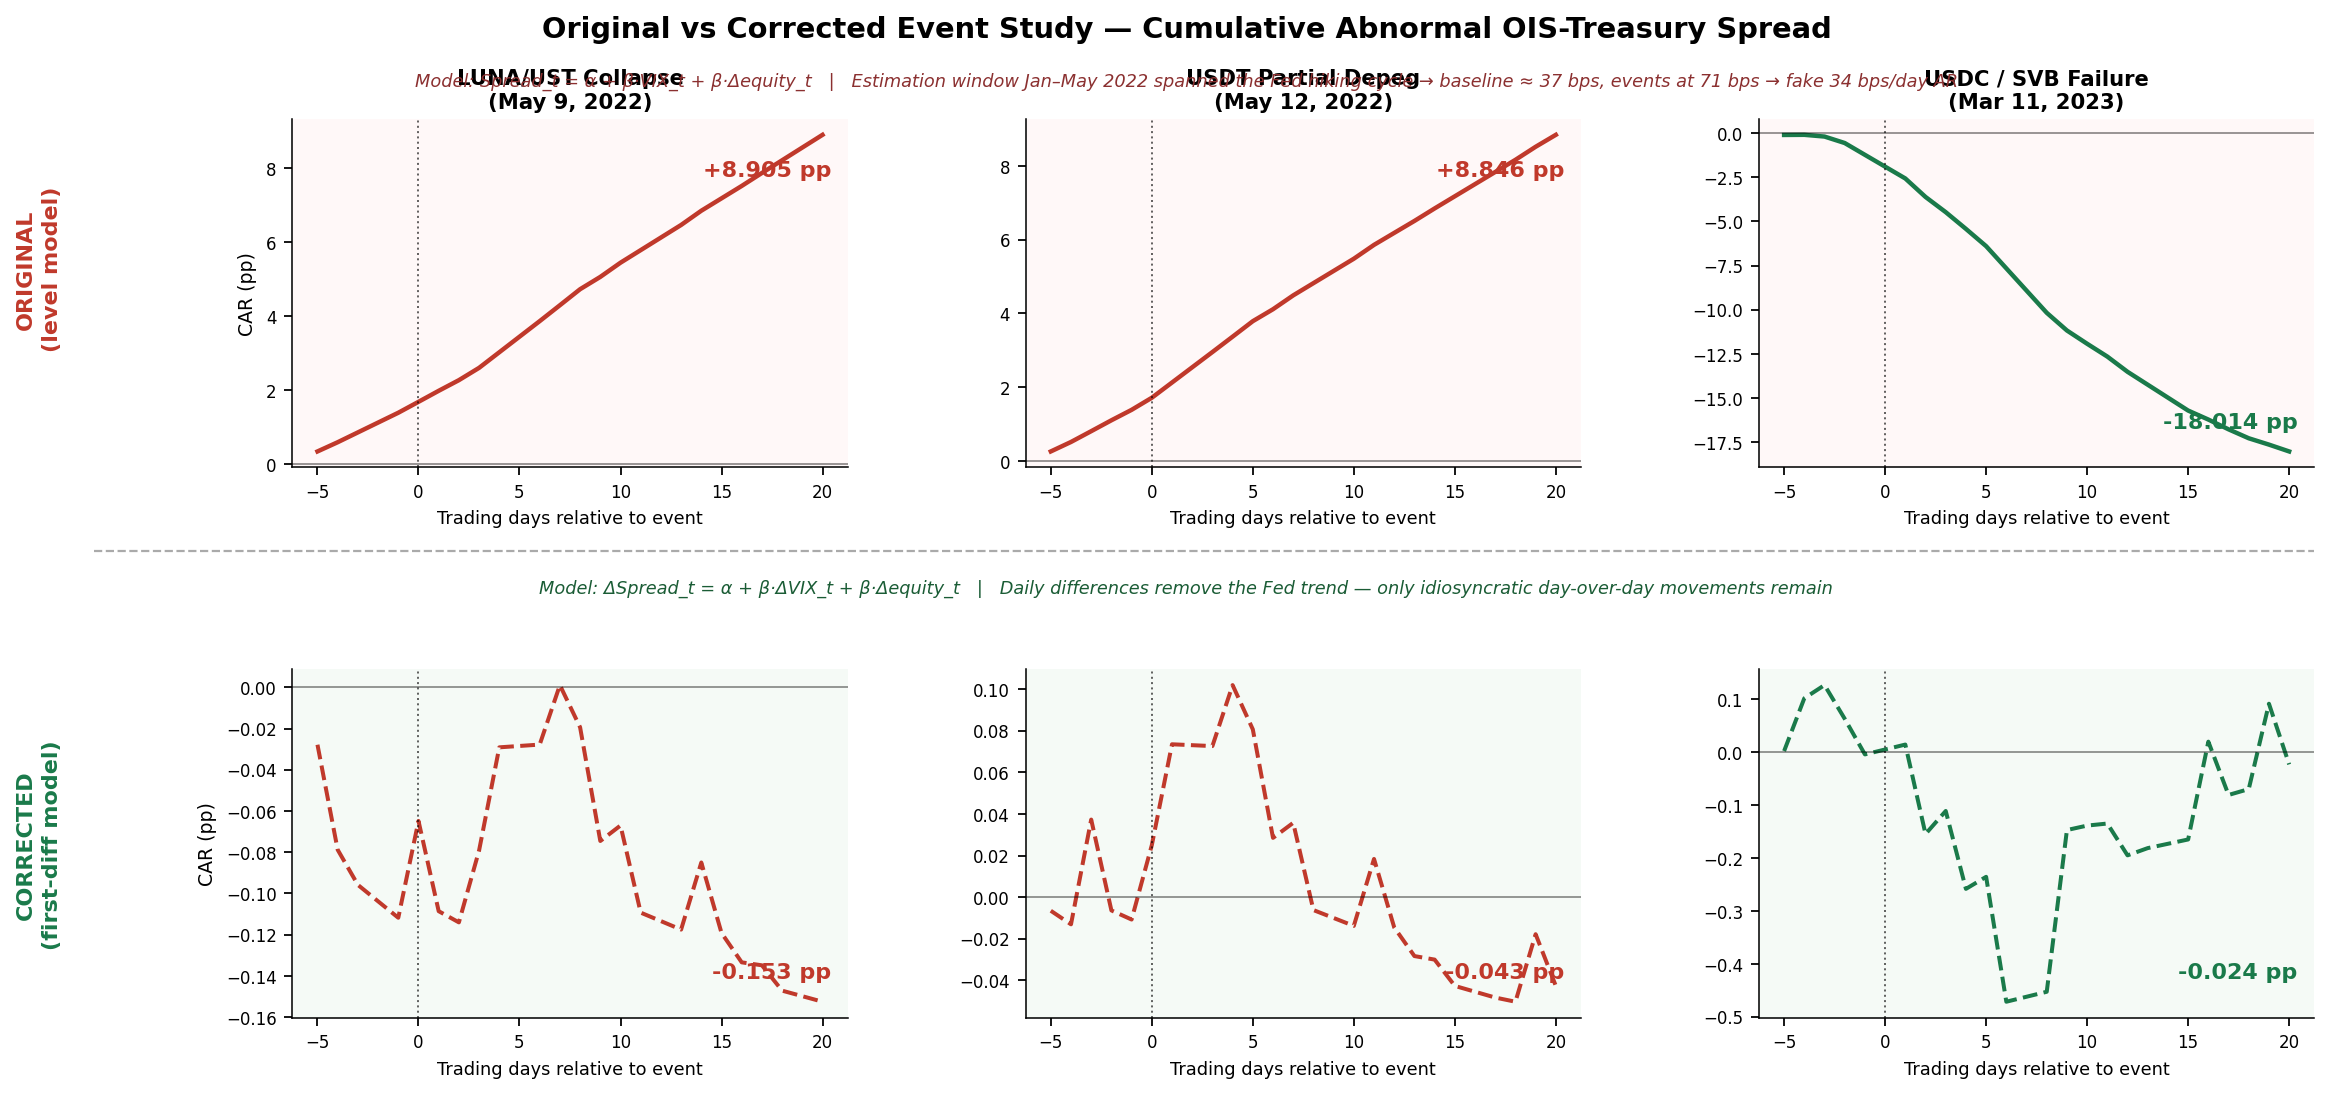
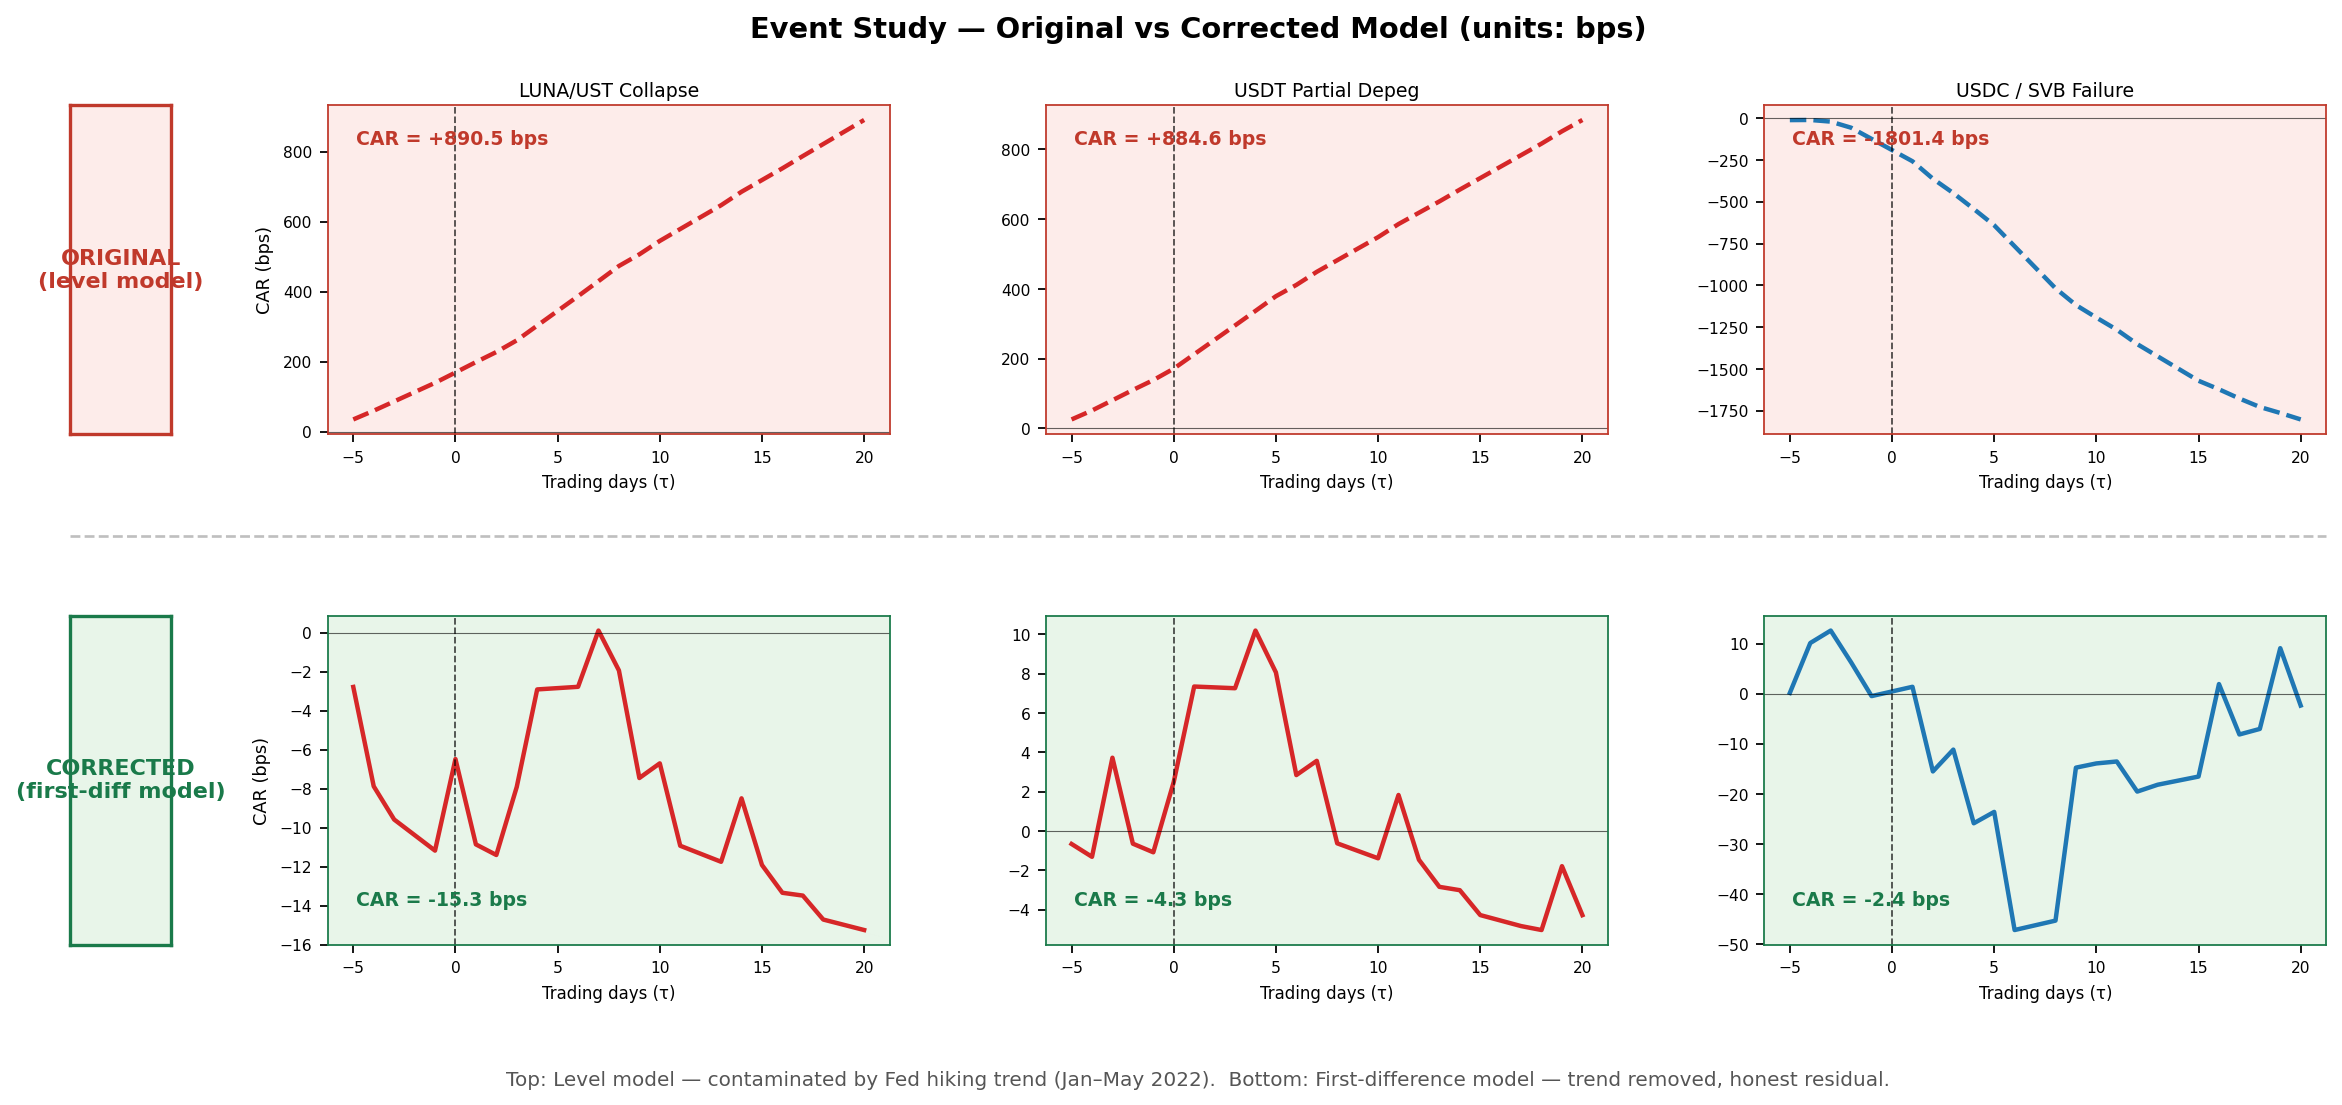
changed pp to bps

diff --git a/make_slides_0602.py b/make_slides_0602.py
@@ -205,7 +205,7 @@ slide_number(sld, 2)
 
 items = [
     (RED,     "CAR Correction",
-     "Our original event study CARs (+8.9/−18 pp) were inflated by a model specification error. "
+     "Our original event study CARs (+891/−1,801 bps) were inflated by a model specification error. "
      "We show the time series that explains what went wrong, and present the corrected numbers."),
     (MIDGRAY, "Corrected Event Study",
      "With the first-difference model, all three event CARs are near zero and insignificant. "
@@ -262,9 +262,9 @@ txt(sld, "Original  (level model)",
 box(sld, Inches(0.35), COL_T + Inches(0.33), Inches(3.55), COL_H - Inches(0.33), fill=LIGHT_RED)
 tf = bullet_tb(sld, Inches(0.45), COL_T + Inches(0.38), Inches(3.35), COL_H - Inches(0.45))
 for label, val, col in [
-    ("LUNA  (May 2022):",  "+8.91 pp  ***", RED),
-    ("USDT  (May 2022):",  "+8.85 pp  ***", RED),
-    ("SVB   (Mar 2023):", "−18.01 pp  ***", GREEN),
+    ("LUNA  (May 2022):",  "+891 bps  ***", RED),
+    ("USDT  (May 2022):",  "+885 bps  ***", RED),
+    ("SVB   (Mar 2023):", "−1,801 bps  ***", GREEN),
 ]:
     add_line(tf, label, size=10, color=BODY_DARK, space_before=4)
     add_line(tf, f"        {val}", size=13, bold=True, color=col, space_before=1)
@@ -280,7 +280,7 @@ tf2 = bullet_tb(sld, Inches(4.15), COL_T + Inches(0.38), Inches(5.0), COL_H - In
 add_line(tf2, "Estimation window for 2022 events: Jan–May 2022", size=11, bold=True, color=BODY_DARK, space_before=2)
 add_line(tf2, "Spread in that window: 5 bps → 78 bps (Fed hiking!)", size=11, color=AMBER, bold=True, space_before=4)
 add_line(tf2, "Model baseline: 37 bps avg  |  Events happened at: 71 bps", size=11, color=BODY_DARK, space_before=4)
-add_line(tf2, "→ 34 bps/day fake 'abnormal' × 26 days = 8.84 pp", size=12, bold=True, color=RED, space_before=5)
+add_line(tf2, "→ 34 bps/day fake 'abnormal' × 26 days = 884 bps", size=12, bold=True, color=RED, space_before=5)
 add_line(tf2, "Net actual spread change during LUNA event: −0.3 bps", size=10, italic=True, color=MIDGRAY, space_before=4)
 
 # Corrected numbers
@@ -291,9 +291,9 @@ txt(sld, "Corrected  (first-diff model)",
 box(sld, Inches(9.4), COL_T + Inches(0.33), Inches(3.6), COL_H - Inches(0.33), fill=LIGHT_GRN)
 tf3 = bullet_tb(sld, Inches(9.5), COL_T + Inches(0.38), Inches(3.4), COL_H - Inches(0.45))
 for label, val in [
-    ("LUNA  (May 2022):",  "−0.15 pp  n.s."),
-    ("USDT  (May 2022):",  "−0.04 pp  n.s."),
-    ("SVB   (Mar 2023):",  "−0.02 pp  n.s."),
+    ("LUNA  (May 2022):",  "−15.3 bps  n.s."),
+    ("USDT  (May 2022):",  "−4.3 bps  n.s."),
+    ("SVB   (Mar 2023):",  "−2.4 bps  n.s."),
 ]:
     add_line(tf3, label, size=10, color=BODY_DARK, space_before=4)
     add_line(tf3, f"        {val}", size=13, bold=True, color=MIDGRAY, space_before=1)
@@ -354,12 +354,12 @@ img(sld, RESULTS / "car_comparison.png",
 # Two callout boxes at bottom left and right
 box(sld, Inches(0.35), Inches(6.5), Inches(6.1), Inches(0.38), fill=LIGHT_RED)
 txt(sld,
-    "Original (level model):  LUNA +8.91 pp***  ·  USDT +8.85 pp***  ·  SVB −18.01 pp***",
+    "Original (level model):  LUNA +891 bps***  ·  USDT +885 bps***  ·  SVB −1,801 bps***",
     Inches(0.5), Inches(6.54), Inches(5.8), Inches(0.28),
     size=11, bold=True, color=RED)
 box(sld, Inches(6.6), Inches(6.5), Inches(6.35), Inches(0.38), fill=LIGHT_GRN)
 txt(sld,
-    "Corrected (first-diff model):  LUNA −0.15 pp n.s.  ·  USDT −0.04 pp n.s.  ·  SVB −0.02 pp n.s.",
+    "Corrected (first-diff model):  LUNA −15.3 bps n.s.  ·  USDT −4.3 bps n.s.  ·  SVB −2.4 bps n.s.",
     Inches(6.75), Inches(6.54), Inches(6.0), Inches(0.28),
     size=11, bold=True, color=GREEN)
 
@@ -371,10 +371,10 @@ orange_callout(sld,
 notes(sld,
     "This is the direct visual comparison between the original and corrected models. "
     "The top row shows what our original event study produced: "
-    "positive 8.9 pp for LUNA, positive 8.85 pp for USDT, and negative 18 pp for SVB. "
+    "positive 891 bps for LUNA, positive 885 bps for USDT, and negative 1,801 bps for SVB. "
     "Every graph shows a clear dramatic trend — either up or down. "
     "The bottom row shows the corrected first-difference model: "
-    "all three events produce CARs within a few hundredths of a percentage point from zero. "
+    "all three events produce CARs within a few basis points of zero. "
     "The contrast is stark. The top row looked like strong evidence. The bottom row is the honest result. "
     "The key insight is that the top row's dramatic trend was the Fed raising rates — "
     "not the stablecoin events themselves. "
@@ -406,17 +406,17 @@ ann_w = Inches(4.0)
 
 for i, (name, date, car, sig, hcol, interp) in enumerate([
     ("LUNA/UST Collapse", "May 9, 2022",
-     "−0.15 pp  n.s.", "", RED,
+     "−15.3 bps  n.s.", "", RED,
      "Spread barely moved (net −0.3 bps). "
      "T-bill selling (Tether) offset by market flight-to-safety buying. "
      "Net effect: indistinguishable from noise."),
     ("USDT Partial Depeg", "May 12, 2022",
-     "−0.04 pp  n.s.", "", RED,
+     "−4.3 bps  n.s.", "", RED,
      "Same buffer, same period. "
      "$7B in redemptions met via T-bill sales, "
      "but market-wide buying cancelled the effect."),
     ("USDC / SVB Failure", "Mar 11, 2023",
-     "−0.02 pp  n.s.", "", GREEN,
+     "−2.4 bps  n.s.", "", GREEN,
      "Govt. guarantee → no T-bill sales. "
      "Sharp transient drop then recovery. "
      "Spread move fully explained by VIX/equity."),
@@ -440,7 +440,7 @@ txt(sld, "How to read these graphs:",
 box(sld, Inches(0.35), Inches(5.67), Inches(8.5), Inches(0.52), fill=LGRAY)
 txt(sld,
     "Dashed vertical line = event date (τ = 0).  "
-    "Y-axis = cumulative abnormal spread change in pp since 5 days before the event.  "
+    "Y-axis = cumulative abnormal spread change in bps since 5 days before the event.  "
     "A flat line at zero means the event had no measurable effect on the spread.",
     Inches(0.5), Inches(5.7), Inches(8.2), Inches(0.44),
     size=11, color=BODY_DARK)
@@ -448,7 +448,7 @@ txt(sld,
 # Note about SVB transient
 box(sld, Inches(0.35), Inches(6.25), Inches(8.5), Inches(0.52), fill=RGBColor(0xE8, 0xF4, 0xEC))
 txt(sld,
-    "Note on SVB (right panel): the CAR drops sharply to −0.5 pp around day +5 "
+    "Note on SVB (right panel): the CAR drops sharply to ~−50 bps around day +5 "
     "(the flight-to-safety spike), then recovers. Final CAR at day +20 is near zero "
     "because the spread normalised as markets calmed. The transient drop is real but "
     "fully explained by the VIX/equity controls.",
@@ -467,7 +467,7 @@ notes(sld,
     "Tether was selling T-bills to meet redemptions, but at the same time the financial panic "
     "caused a general flight to safety — other investors were buying T-bills. "
     "The two forces cancelled. "
-    "For SVB on the right: notice the sharp drop to about negative 0.5 pp around day plus 5. "
+    "For SVB on the right: notice the sharp drop to about negative 50 bps around day plus 5. "
     "This is the acute flight-to-safety spike — the T-bill spread compressed sharply as "
     "investors rushed out of bank deposits and into T-bills. "
     "But it recovered back to near zero by day plus 20 as markets stabilised. "
@@ -494,7 +494,7 @@ txt(sld,
     size=12, italic=True, color=WHITE)
 
 # Table
-headers = ["Type", "Date", "Buffer", "CAR (pp)", "t-stat", "Sig.", "Interpretation"]
+headers = ["Type", "Date", "Buffer", "CAR (bps)", "t-stat", "Sig.", "Interpretation"]
 col_ls  = [Inches(0.35), Inches(1.6),  Inches(4.65), Inches(6.3),
            Inches(7.85), Inches(9.05), Inches(9.98)]
 col_ws  = [Inches(1.25), Inches(3.05), Inches(1.65), Inches(1.55),
@@ -506,12 +506,12 @@ for h, l, w in zip(headers, col_ls, col_ws):
         size=11, bold=True, color=WHITE)
 
 rows = [
-    ("PLACEBO", "Jun 15, 2021",           "Low",        "+0.01", "0.47",  "n.s.", "Near zero — no event ✓"),
-    ("PLACEBO", "Oct 12, 2021",           "Low",        "+0.02", "0.73",  "n.s.", "Near zero — no event ✓"),
-    ("PLACEBO", "Jul 15, 2025",           "High",       "−0.11", "−1.80", "*",    "Marginally sig. — likely random"),
-    ("ACTUAL",  "May 9, 2022  (LUNA)",    "Low",        "−0.15", "−1.07", "n.s.", "Not different from placebos"),
-    ("ACTUAL",  "May 12, 2022  (USDT)",   "Low",        "−0.04", "−0.31", "n.s.", "Not different from placebos"),
-    ("ACTUAL",  "Mar 11, 2023  (SVB)",    "High+Gov.",  "−0.02", "−0.04", "n.s.", "Not different from placebos"),
+    ("PLACEBO", "Jun 15, 2021",           "Low",        "+1.39", "0.47",  "n.s.", "Near zero — no event ✓"),
+    ("PLACEBO", "Oct 12, 2021",           "Low",        "+1.97", "0.73",  "n.s.", "Near zero — no event ✓"),
+    ("PLACEBO", "Jul 15, 2025",           "High",       "−10.99", "−1.80", "*",   "Marginally sig. — likely random"),
+    ("ACTUAL",  "May 9, 2022  (LUNA)",    "Low",        "−15.25", "−1.07", "n.s.", "Not different from placebos"),
+    ("ACTUAL",  "May 12, 2022  (USDT)",   "Low",        "−4.27",  "−0.31", "n.s.", "Not different from placebos"),
+    ("ACTUAL",  "Mar 11, 2023  (SVB)",    "High+Gov.",  "−2.35",  "−0.04", "n.s.", "Not different from placebos"),
 ]
 for k, (rtype, date, buf, car, tstat, sig, interp) in enumerate(rows):
     bg = LGRAY if k % 2 == 0 else WHITE
@@ -528,8 +528,8 @@ for k, (rtype, date, buf, car, tstat, sig, interp) in enumerate(rows):
 # Summary comparison boxes
 box(sld, Inches(0.35), Inches(5.73), Inches(12.6), Inches(0.32), fill=LGRAY)
 txt(sld,
-    "Placebo mean |CAR| = 0.05 pp          "
-    "Actual mean |CAR| = 0.07 pp          "
+    "Placebo mean |CAR| = 4.8 bps          "
+    "Actual mean |CAR| = 7.3 bps          "
     "Ratio = 1.5×          "
     "(original inflated ratio was 21.7×)",
     Inches(0.5), Inches(5.76), Inches(12.1), Inches(0.26),
@@ -555,8 +555,8 @@ notes(sld,
     "The placebo test is supposed to validate our methodology: "
     "run the same event study on ordinary non-crisis days and confirm the CARs are near zero. "
     "With the original inflated model we got a 21.7 times difference — which looked great but was wrong. "
-    "With the corrected first-difference model, the placebo mean absolute CAR is 0.05 pp "
-    "and the actual event mean absolute CAR is 0.07 pp — a ratio of only 1.5 times. "
+    "With the corrected first-difference model, the placebo mean absolute CAR is 4.8 bps "
+    "and the actual event mean absolute CAR is 7.3 bps — a ratio of only 1.5 times. "
     "They are essentially the same. "
     "This confirms that the event study, with the correct methodology, truly finds no significant effect. "
     "The next slide shows the visual comparison of the CAR paths.")
@@ -609,7 +609,7 @@ notes(sld,
     "The bottom row shows the actual crisis events, and they also hover near zero — "
     "essentially the same as the placebos. "
     "The key observation is that you cannot visually distinguish the bottom row from the top row. "
-    "For the SVB event in the bottom right, you can see the sharp transient dip to negative 0.5 pp "
+    "For the SVB event in the bottom right, you can see the sharp transient dip to about negative 50 bps "
     "around day 5, then a recovery. That is the acute flight-to-safety spike during the banking panic. "
     "But because it recovers, the final CAR is near zero. "
     "The dashed versus solid line style and the red versus blue colour coding "
@@ -645,12 +645,12 @@ txt(sld, "Before — what we were implying",
     size=12, bold=True, color=WHITE)
 box(sld, Inches(0.35), Inches(2.0), Inches(5.6), Inches(2.1), fill=LIGHT_RED)
 tf_b = bullet_tb(sld, Inches(0.45), Inches(2.07), Inches(5.4), Inches(1.96))
-add_line(tf_b, "\"The event study shows +8.9/−18 pp CARs.\"", size=12, bold=True, color=RED, space_before=2)
-add_line(tf_b, "\"A 27 pp swing with Welch t = 15.22.\"", size=12, bold=True, color=RED, space_before=4)
+add_line(tf_b, "\"The event study shows +891/−1,801 bps CARs.\"", size=12, bold=True, color=RED, space_before=2)
+add_line(tf_b, "\"A 2,700 bps swing with Welch t = 15.22.\"", size=12, bold=True, color=RED, space_before=4)
 add_line(tf_b, "\"This proves the buffer channel.\"", size=12, bold=True, color=RED, space_before=4)
 add_line(tf_b, " ", size=5, space_before=2)
 add_line(tf_b, "Problem: CARs were inflated ~12× by the Fed hiking trend.", size=11, color=BODY_DARK, space_before=4)
-add_line(tf_b, "Corrected CARs: near zero. The '27 pp swing' disappears.", size=11, bold=True, color=RED, space_before=4)
+add_line(tf_b, "Corrected CARs: near zero. The '2,700 bps swing' disappears.", size=11, bold=True, color=RED, space_before=4)
 
 # After
 box(sld, Inches(0.35), Inches(4.2), Inches(5.6), Inches(0.3), fill=GREEN)
@@ -689,7 +689,7 @@ orange_callout(sld,
 notes(sld,
     "This slide answers the question: what does it mean to reframe the paper? "
     "In plain terms: we are not changing the conclusion. We are being honest about which evidence proves it. "
-    "Before, we were pointing to the event study as the main proof — the 27 pp swing with t = 15. "
+    "Before, we were pointing to the event study as the main proof — the 2,700 bps swing with t = 15. "
     "That was built on inflated numbers. Once corrected, the event study finds nothing significant. "
     "After, we point to two results that were always there and were never affected by the correction. "
     "First: the regression coefficient. Beta one equals negative 6.02 basis points per standard deviation "

diff --git a/placebo_test.py b/placebo_test.py
@@ -99,6 +99,7 @@ def run_event(df, name, meta):
 
 def main():
     df = pd.read_csv(DAILY_CSV, index_col=0, parse_dates=True)
+    df["spread"]  = df["spread"] * 100   # convert pp → bps (consistent with literature and β₁ units)
     df["dspread"] = df["spread"].diff()
     df["dvix"]    = df["vix"].diff()
     print(f"Daily panel: {df.index[0].date()} – {df.index[-1].date()}  N={len(df)}")
@@ -127,9 +128,9 @@ def main():
     placebo_cars = [r["car_full"] for r in placebo_results]
     actual_cars  = [r["car_full"] for r in actual_results]
     print(f"  Placebo CARs : {[f'{c:+.2f}' for c in placebo_cars]}")
-    print(f"    mean |CAR| = {np.mean(np.abs(placebo_cars)):.2f} pp")
+    print(f"    mean |CAR| = {np.mean(np.abs(placebo_cars)):.2f} bps")
     print(f"  Actual  CARs : {[f'{c:+.2f}' for c in actual_cars]}")
-    print(f"    mean |CAR| = {np.mean(np.abs(actual_cars)):.2f} pp")
+    print(f"    mean |CAR| = {np.mean(np.abs(actual_cars)):.2f} bps")
     ratio = np.mean(np.abs(actual_cars)) / np.mean(np.abs(placebo_cars))
     print(f"  Magnitude ratio (actual / placebo): {ratio:.1f}x")
     print()
@@ -138,20 +139,20 @@ def main():
     # Economic magnitude is the right comparison: <1 pp placebo vs 9-18 pp actual.
     for r in placebo_results:
         ar = r["ar_series"].dropna()
-        print(f"  {r['date']} placebo CAR={r['car_full']:+.4f} pp  "
-              f"daily spread std={ar.std():.4f} pp  [SE artifact if std near zero]")
+        print(f"  {r['date']} placebo CAR={r['car_full']:+.4f} bps  "
+              f"daily spread std={ar.std():.4f} bps  [SE artifact if std near zero]")
 
     # ── Summary table ────────────────────────────────────────────────────────
     rows = []
     for r in placebo_results:
         rows.append({"Type": "Placebo", "Event": r["label"].replace("\n", " "),
                      "Date": r["date"], "Buffer": r["buffer"],
-                     "CAR (pp)": r["car_full"], "t-stat": r["t_stat"],
+                     "CAR (bps)": r["car_full"], "t-stat": r["t_stat"],
                      "p-value": r["p_value"], "Sig": r["sig"]})
     for r in actual_results:
         rows.append({"Type": "Actual", "Event": r["label"].replace("\n", " "),
                      "Date": r["date"], "Buffer": r["buffer"],
-                     "CAR (pp)": r["car_full"], "t-stat": r["t_stat"],
+                     "CAR (bps)": r["car_full"], "t-stat": r["t_stat"],
                      "p-value": r["p_value"], "Sig": r["sig"]})
     table = pd.DataFrame(rows)
     table.to_csv(f"{RESULTS_DIR}/placebo_table.csv", index=False)
@@ -180,13 +181,13 @@ def main():
         ax.set_title(f"{'[PLACEBO] ' if atype == 'Placebo' else ''}{res['label']}",
                      fontsize=8)
         ax.set_xlabel("Trading days relative to event", fontsize=7)
-        ax.set_ylabel("CAR (pp)", fontsize=7)
-        ax.annotate(f"CAR={res['car_full']:+.2f} {res['sig']}",
+        ax.set_ylabel("CAR (bps)", fontsize=7)
+        ax.annotate(f"CAR={res['car_full']:+.2f} bps {res['sig']}",
                     xy=(0.05, 0.9), xycoords="axes fraction", fontsize=8,
                     color="gray" if atype == "Placebo" else "black")
 
-    axes[0][0].set_ylabel("PLACEBO\nCAR (pp)", fontsize=8, color="gray")
-    axes[1][0].set_ylabel("ACTUAL\nCAR (pp)", fontsize=8, color="black")
+    axes[0][0].set_ylabel("PLACEBO\nCAR (bps)", fontsize=8, color="gray")
+    axes[1][0].set_ylabel("ACTUAL\nCAR (bps)", fontsize=8, color="black")
     plt.tight_layout()
     plt.savefig(f"{RESULTS_DIR}/placebo_cars.png", dpi=150, bbox_inches="tight")
     print(f"  Saved: {RESULTS_DIR}/placebo_cars.png")

diff --git a/event_study.py b/event_study.py
@@ -120,12 +120,12 @@ def plot_cars(results: list[dict], outfile: str):
         ax.axhline(0, color="black", linewidth=0.5)
         ax.set_title(f"{res['event']}\n(buffer: {res['buffer']})", fontsize=9)
         ax.set_xlabel("Trading days relative to event")
-        ax.set_ylabel("CAR (pp)")
+        ax.set_ylabel("CAR (bps)")
         sig = res["sig"]
-        ax.annotate(f"CAR={res['car_full']:.3f} {sig}", xy=(0.05, 0.9),
+        ax.annotate(f"CAR={res['car_full']:.2f} bps {sig}", xy=(0.05, 0.9),
                     xycoords="axes fraction", fontsize=8)
 
-    plt.suptitle("Buffer-Conditioned Cumulative Abnormal OIS-Treasury Spread", fontsize=10)
+    plt.suptitle("Buffer-Conditioned Cumulative Abnormal OIS-Treasury Spread (bps)", fontsize=10)
     plt.tight_layout()
     plt.savefig(outfile, dpi=150, bbox_inches="tight")
     print(f"  Plot saved to {outfile}")
@@ -133,7 +133,7 @@ def plot_cars(results: list[dict], outfile: str):
 
 def main():
     df = pd.read_csv(DAILY_CSV, index_col=0, parse_dates=True)
-    # First-difference variables for the normal model
+    df["spread"]  = df["spread"] * 100   # convert pp → bps (consistent with literature and β₁ units)
     df["dspread"] = df["spread"].diff()
     df["dvix"]    = df["vix"].diff()
     print(f"Daily panel: {len(df)} obs ({df.index[0].date()} – {df.index[-1].date()})")